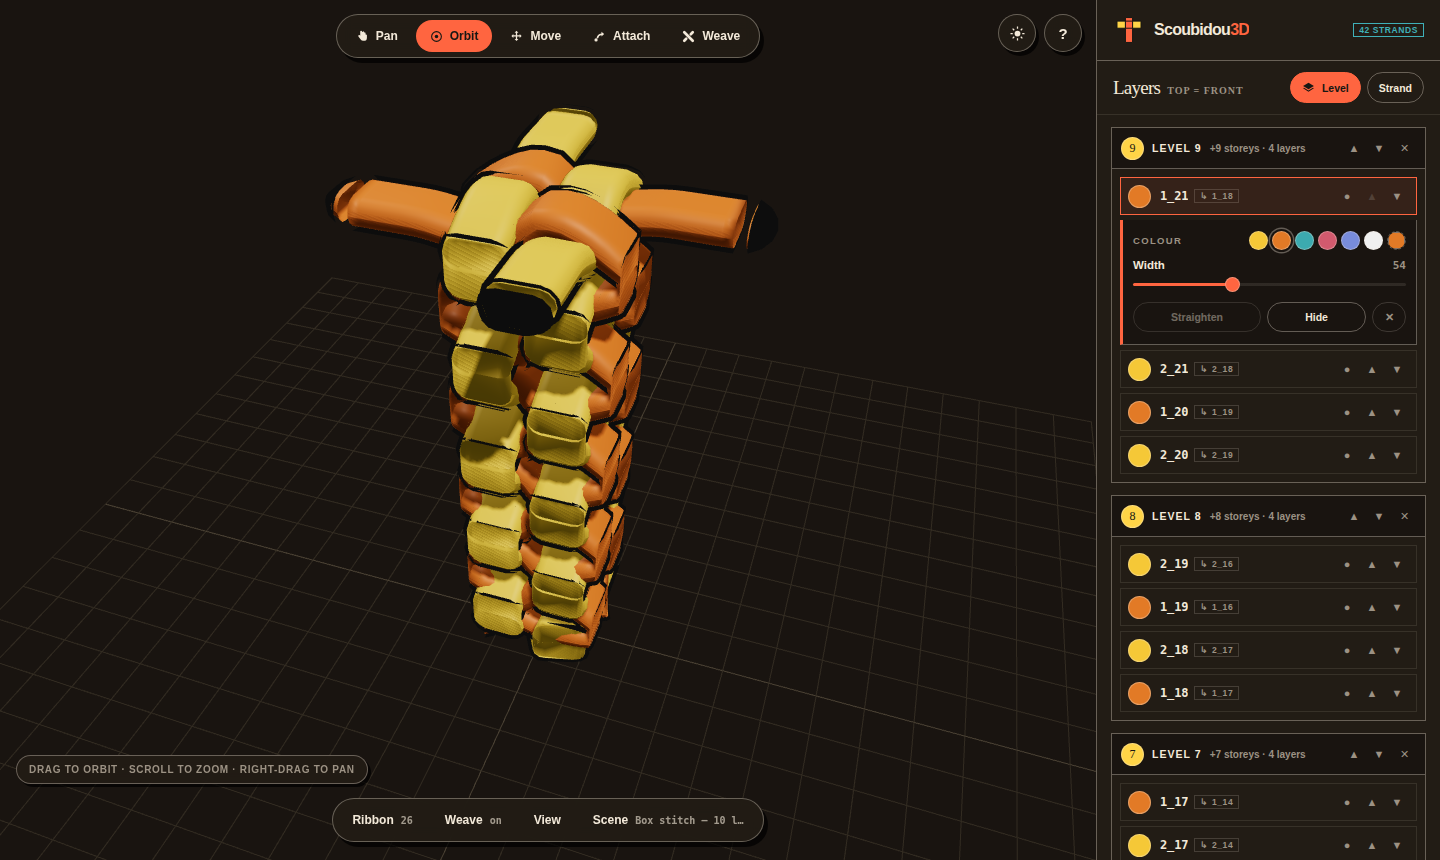
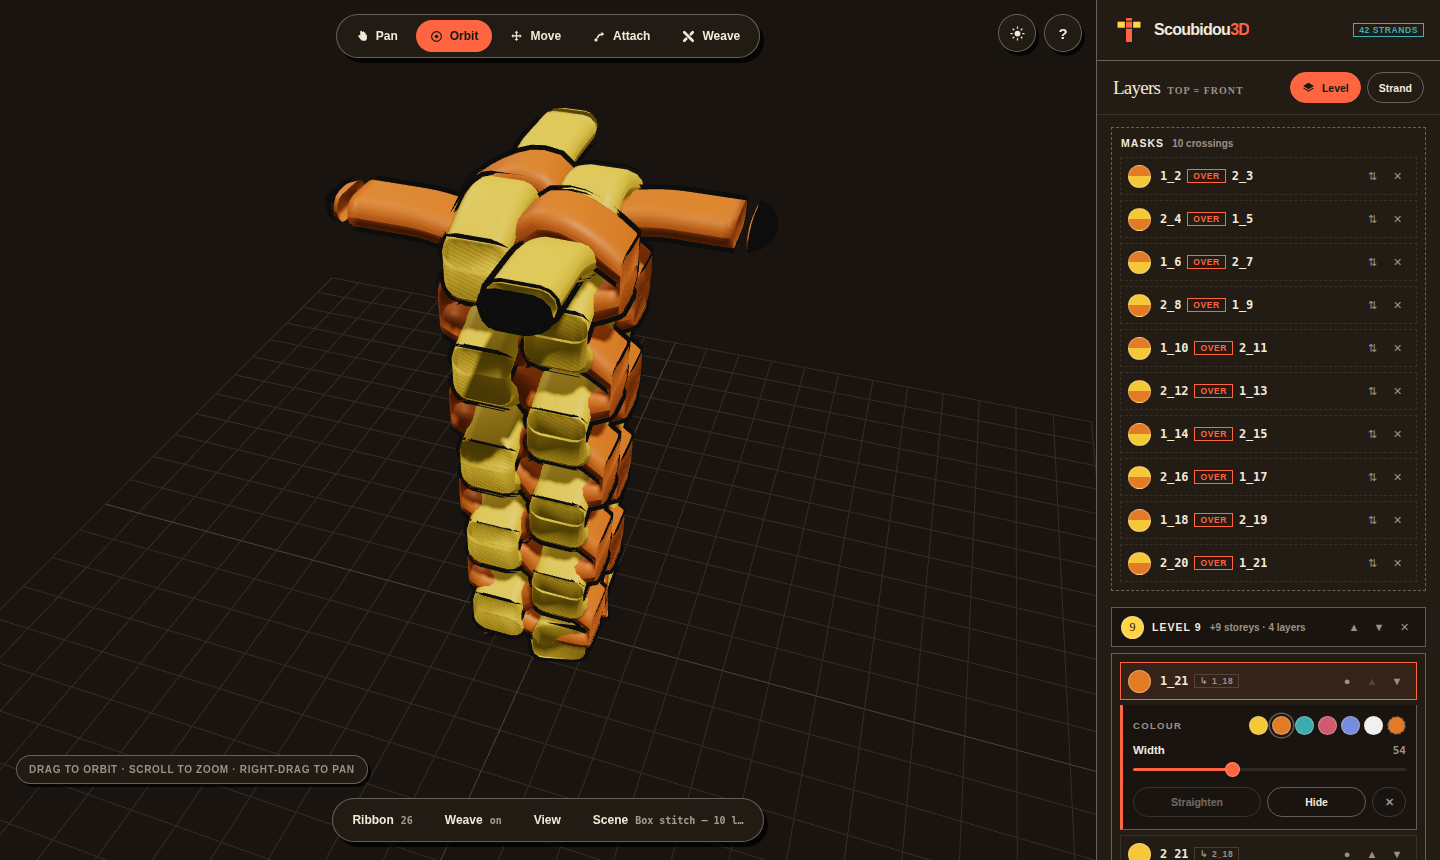
Make a storey a bar of its own, and hang the stack from the bottom
Both of these come from a hand sketch of the panel, which was worth more than the
mock here: it is what someone reaches for when they want to move a storey.

A level was a card whose header happened to name it. It is now a BAR standing on
its own above a box of the layers resting on it. That is the same model either way
— a break is still a position in the stack (levels.ts is untouched) — but a level
is a thing you MOVE, and a detached bar reads as the handle for it, which a card
header does not. The bar carries that break's ▲▼✕; level 0's bar carries none,
because the ground is not a break, just what is left below the lowest one. Masks
are crossings rather than storeys, so their card moves above the stack proper —
which is also where OpenStrand's own layer panel keeps them.

The stack now hangs from the BOTTOM. It is built bottom-up — level 0 is the
ground, strands[0] is the lowest layer — so a panel with room to spare was putting
the ground against its ceiling and leaving the floor empty, which reads upside
down. `margin-top: auto` on the first child rather than `justify-content: flex-end`:
the latter makes overflowing content unreachable at the top in every browser that
has ever shipped it, while an auto margin just resolves to 0. Checked on a
ten-level box stitch — 3047px of rows in a 785px box, first child 12px from the
top, all of it scrollable.

One bug this turned up: the strand count in the brand bar only refreshed on a full
[…]

diff --git a/src/ui/panel.ts b/src/ui/panel.ts
@@ -5,12 +5,17 @@
 //   * The PANEL is the layer stack and nothing else. Everything that used to
 //     scroll above the stack — Ribbon, Weave, View, Scene — has left, so the
 //     thing you actually work in is never below anything.
-//   * The stack is a CARD PER LEVEL rather than one flat list with divider rows.
-//     A storey is a real grouping in the model (levels.ts), so it reads as a
-//     container: its header carries the controls that move or remove that
-//     storey, and the strands resting on it are inside. Masks get their own card
-//     at the foot. Levels are numbered from 0 — level 0 is the ground, which is
-//     what levelAt() has always returned.
+//   * A storey is a BAR of its own with its layers boxed under it, rather than a
+//     card whose header happens to name it. A level is a thing you MOVE — ▲▼
+//     slide it through the stack, ✕ removes it — and a detached bar reads as the
+//     handle for that, the way it is drawn when you sketch the panel by hand.
+//     Level 0 is the ground: not a break at all, just what is left below the
+//     lowest one, so its bar carries no controls. Masks are crossings rather than
+//     storeys, so they sit in a card above the stack — where OpenStrand's own
+//     layer panel keeps them.
+//   * The stack HANGS FROM THE BOTTOM. It is built bottom-up (level 0 is the
+//     ground, strands[0] is the lowest layer), so a panel with room to spare puts
+//     the ground on its floor rather than its ceiling.
 //   * Selecting a row opens an INSPECTOR inside it: that strand's colour, width
 //     and straighten, next to the row they belong to instead of in a section
 //     somewhere else.
@@ -314,9 +319,10 @@ export class Panel {
     // Only the strand count: a 42-strand, 10-level scene ran the full line off the
     // panel's edge, and the cards below already state their own counts — the level
     // headers their layers, the mask card its crossings.
-    const name = el('span', 'tag teal', plural(this.scene.strands.length, 'strand'));
-    name.title = `${this.scene.name} — ${sceneTag(this.scene)}`;
+    const name = el('span', 'tag teal');
+    this.brandTag = name;
     brand.appendChild(name);
+    this.syncBrand();
     this.root.appendChild(brand);
 
     this.barHost = el('div', 'stackbar');
@@ -352,6 +358,13 @@ export class Panel {
     host.innerHTML = '';
 
     this.syncFoldToggle();
+
+    this.syncBrand();
+
+    // The stack reads bottom-up — level 0 is the ground — so an under-filled
+    // panel hangs from the bottom and the ground row sits on the panel's floor.
+    // A dock card rendered in here is not a stack and starts at the top.
+    host.classList.toggle('from-bottom', !this.inlineDock());
 
     const section = this.inlineDock();
     if (section) {
@@ -1187,6 +1200,16 @@ export class Panel {
   // ---- The layer stack -----------------------------------------------------
   private stackHost: HTMLElement | null = null;
   private barHost: HTMLElement | null = null;
+  private brandTag: HTMLElement | null = null;
+
+  /** The scene's own line in the brand bar. Refreshed with the stack rather than
+   *  only on a full render: adding a strand used to leave the count stale. */
+  private syncBrand(): void {
+    const tag = this.brandTag;
+    if (!tag) return;
+    tag.textContent = plural(this.scene.strands.length, 'strand');
+    tag.title = `${this.scene.name} — ${sceneTag(this.scene)}`;
+  }
 
   /**
    * A card per storey, highest first, then the masks in a card of their own.
@@ -1202,45 +1225,56 @@ export class Panel {
     if (!host) return;
     host.innerHTML = '';
 
+    // Masks are crossings rather than storeys, so they sit above the stack proper
+    // — which is also where OpenStrand's own layer panel keeps them.
+    if (this.scene.masks.length) host.appendChild(this.maskCard());
+
     const top = this.scene.levelBreaks.length;
     for (let level = top; level >= 0; level--) {
       const rows: number[] = [];
       for (let i = this.scene.strands.length - 1; i >= 0; i--) {
         if (levelAt(this.scene, i) === level) rows.push(i);
       }
-      // A break parked at the very top (or stacked on another) holds no strands
-      // yet — every layer added from now on is born up there. Show it anyway:
-      // it is a real thing in the model, and it is the one you press ✕ on if you
+      // The bar is its own row above the group rather than the group's header:
+      // a storey is a thing you MOVE, and a detached bar reads as the handle for
+      // it. A break parked at the very top (or stacked on another) holds no
+      // strands yet — every layer added from now on is born up there — so its bar
+      // shows over an empty group, which is also the one you press ✕ on if you
       // added it by accident.
-      host.appendChild(this.levelCard(level, rows));
+      host.appendChild(this.levelBar(level, rows.length));
+      host.appendChild(this.levelGroup(level, rows));
     }
-
-    if (this.scene.masks.length) host.appendChild(this.maskCard());
   }
 
-  private levelCard(level: number, rows: number[]): HTMLElement {
-    const card = el('section', 'level-card');
-    const head = el('header');
+  /**
+   * The storey marker: a bar of its own, above the layers resting on it.
+   *
+   * Level N is break N-1, so the bar carries that break's ▲▼✕. Level 0 is the
+   * ground — not a break at all, just what is left below the lowest one — so its
+   * bar has nothing to move and says so by carrying no controls.
+   */
+  private levelBar(level: number, count: number): HTMLElement {
+    const bar = el('div', 'level-bar' + (level === 0 ? ' ground' : ''));
 
-    const badge = el('span', 'level-badge', String(level));
-    head.appendChild(badge);
-    head.appendChild(el('b', undefined, `Level ${level}`));
+    bar.appendChild(el('span', 'level-badge', String(level)));
+    bar.appendChild(el('b', undefined, `Level ${level}`));
 
     const step = fmt(this.view.getLevelStep());
-    const count = plural(rows.length, 'layer');
-    head.appendChild(
+    const layers = plural(count, 'layer');
+    bar.appendChild(
       el(
         'small',
         undefined,
-        level === 0 ? `ground · ${count}` : `+${level} ${level === 1 ? 'storey' : 'storeys'} · ${count}`,
+        level === 0
+          ? `ground · ${layers}`
+          : `+${level} ${level === 1 ? 'storey' : 'storeys'} · ${layers}`,
       ),
     );
-    card.title =
+    bar.title =
       level === 0
         ? 'The ground storey — everything here rests on the base plane.'
         : `Rests ${level} × ${step} above the ground — the strand thickness plus the band the weave lifts and dips through.`;
 
-    // Level N is break N-1; the ground has no break, so nothing to move.
     if (level > 0) {
       const index = level - 1;
       const at = this.scene.levelBreaks[index];
@@ -1267,23 +1301,25 @@ export class Panel {
       del.classList.add('danger');
       controls.appendChild(del);
 
-      head.appendChild(controls);
+      bar.appendChild(controls);
     }
+    return bar;
+  }
 
-    card.appendChild(head);
-
-    const body = el('div', 'level-rows');
+  /** The layers resting on one storey, top of the stack first. */
+  private levelGroup(level: number, rows: number[]): HTMLElement {
+    const group = el('div', 'level-group');
+    group.setAttribute('aria-label', `Level ${level}`);
     if (!rows.length) {
-      body.appendChild(el('p', 'empty', 'Empty — new layers are born here'));
+      group.appendChild(el('p', 'empty', 'Empty — new layers are born here'));
     }
     for (const i of rows) {
-      body.appendChild(this.layerRow(i));
+      group.appendChild(this.layerRow(i));
       if (this.scene.strands[i].id === this.selectedId) {
-        body.appendChild(this.inspector(this.scene.strands[i], i));
+        group.appendChild(this.inspector(this.scene.strands[i], i));
       }
     }
-    card.appendChild(body);
-    return card;
+    return group;
   }
 
   private maskCard(): HTMLElement {
@@ -1292,7 +1328,7 @@ export class Panel {
     head.appendChild(el('b', undefined, 'Masks'));
     head.appendChild(el('small', undefined, plural(this.scene.masks.length, 'crossing')));
     card.appendChild(head);
-    const body = el('div', 'level-rows');
+    const body = el('div');
     // OSS appends a MaskedStrand to the end of the strand list, which is the top
     // of the layer panel; here they are a kind of their own, so they keep their
     // own order and their own card.

diff --git a/src/styles.css b/src/styles.css
@@ -253,50 +253,73 @@ button {
 .stack {
   flex: 1 1 auto;
   min-height: 0;
+  display: flex;
+  flex-direction: column;
   overflow-y: auto;
-  padding: 12px 14px 20px;
+  padding: 12px 14px 16px;
   /* Scrolls vertically; horizontal drags and pinches stay inert, and a scroll that
      hits the end doesn't chain out to the page behind it. */
   touch-action: pan-y;
   overscroll-behavior: contain;
 }
 
-/* ---- a level is a card, not a divider line ------------------------------- */
-/* Everything resting on that storey is inside it, and the card's own header is
-   what moves or removes the storey. */
+/* The stack is built bottom-up — level 0 is the ground — so a panel with room to
+   spare hangs its rows from the FLOOR rather than the ceiling: the ground sits at
+   the bottom of the panel, where it sits in the model.
+   `margin-top: auto` on the first child rather than `justify-content: flex-end`,
+   because the latter makes overflowing content unreachable at the top in every
+   browser that has ever shipped it. An auto margin just resolves to 0 instead. */
+.stack.from-bottom > :first-child {
+  margin-top: auto;
+}
 
-.level-card,
+/* ---- a storey is a bar, and its layers are the box under it --------------- */
+/* The bar is detached from the group on purpose: a storey is a thing you MOVE
+   (▲▼ slide it through the stack, ✕ removes it), and a bar standing on its own
+   above the layers reads as the handle for that. Level 0 is the ground — not a
+   break, just what is left below the lowest one — so its bar carries no
+   controls. */
+
+.level-bar {
+  display: flex;
+  align-items: center;
+  gap: 8px;
+  flex: 0 0 auto;
+  padding: 7px 9px;
+  border: 1.5px solid var(--edge2);
+  background: var(--cream);
+}
+
+.level-group,
 .mask-card {
+  flex: 0 0 auto;
+  margin-top: 6px;
+  padding: 8px;
   border: 1.5px solid var(--edge2);
   background: var(--paper);
 }
 
-.level-card + .level-card,
-.mask-card {
-  margin-top: 12px;
+/* The gap between one storey and the next: bigger than the gap between a bar and
+   its own layers, so the grouping reads without a label. */
+.level-group + .level-bar {
+  margin-top: 16px;
 }
 
-/* Masks are a kind of their own, not a storey — so the card says so. */
+/* Masks are a kind of their own, not a storey — so the card says so, and it sits
+   above the stack proper rather than in it. */
 .mask-card {
+  margin: 0 0 16px;
   border-style: dashed;
 }
 
-.level-card > header,
 .mask-card > header {
   display: flex;
   align-items: center;
   gap: 8px;
-  padding: 8px 9px;
-  background: var(--cream);
-  border-bottom: 1px solid var(--edge2);
+  padding: 1px 1px 8px;
 }
 
-.mask-card > header {
-  background: none;
-  border-bottom-style: dashed;
-}
-
-.level-card > header b,
+.level-bar b,
 .mask-card > header b {
   font-size: 10.5px;
   font-weight: 800;
@@ -304,7 +327,7 @@ button {
   text-transform: uppercase;
 }
 
-.level-card > header small,
+.level-bar small,
 .mask-card > header small {
   margin-right: auto;
   font-size: 10px;
@@ -326,10 +349,6 @@ button {
   color: #171713;
   font-family: Georgia, serif;
   font-size: 12px;
-}
-
-.level-rows {
-  padding: 8px;
 }
 
 .empty {

diff --git a/docs/layer-levels.md b/docs/layer-levels.md
@@ -9,13 +9,12 @@ before the code exists. Short form:
 
 ![the button and the row it adds](layer-levels-panel.svg)
 
-> **The sketch above is the original spec**, drawn when a level was a *row* in one
-> flat list. The panel has since been rebuilt to the mock-3 layout in
-> [docs/panel-mocks](panel-mocks/) and a level is now a **card** holding the
-> strands that rest on it: the rules below are unchanged, but where the doc says
-> “the level row”, read “the level card's header”. Levels are also numbered from
-> **0** — the ground — which is what `levelAt()` returns and what the panel now
-> prints; earlier drafts of this file counted from 1.
+> **The sketch above is the original spec.** The rules below are unchanged; two
+> things about the panel that draws them are. A level is shown as a **bar of its
+> own** with the layers resting on it boxed underneath — so “the level row” in
+> this doc is that bar, and it is what `▲▼✕` act on. And levels are numbered from
+> **0**, the ground, which is what `levelAt()` returns and what the panel prints;
+> earlier drafts of this file counted from 1.
 
 ## Why it is needed
 
@@ -54,8 +53,9 @@ nothing above or below to stay clear of.
 1. **The button.** The Layers header gets a button showing the stacked-layers
    icon, labelled **Level**.
 2. **What it adds.** Pressing it inserts a level at the *top* of the layer stack.
-   The panel shows it as a card, badged with its number — counting up from `0`,
-   the ground — and headed `+N storeys · M layers`.
+   The panel shows it as a bar, badged with its number — counting up from `0`, the
+   ground — reading `+N storeys · M layers`, with that storey's layers in a box
+   below it.
 3. **What it means.** Every strand **above** a level row rests one strand
    thickness (the Ribbon ▸ **Thickness** value) higher in Z than it otherwise
    would. Levels add up: two rows above a lace means two thicknesses.
@@ -64,10 +64,10 @@ nothing above or below to stay clear of.
    both of which push onto the top of the stack) lands above it, one storey up.
    That is the point of the button: press it, and the next thing you draw is on
    a new level.
-5. **It is a real layer.** The card's own header carries `▲` / `▼`, so you can
-   push the storey down through the stack and watch the strands it passes drop a
-   level. `✕` removes it and everything settles back. Level 0 has no controls:
-   the ground is not a break, it is what is left below the lowest one.
+5. **It is a real layer.** The bar carries `▲` / `▼`, so you can push the storey
+   down through the stack and watch the strands it passes drop a level. `✕`
+   removes it and everything settles back. Level 0's bar has no controls: the
+   ground is not a break, it is what is left below the lowest one.
 6. **A cord may climb.** Strands glued end to end share one *rank* — that is what
    stops a stitch from climbing a staircase along its own length just because of
    the order it happened to be drawn in. Levels are not like that: pressing **New

diff --git a/README.md b/README.md
@@ -32,8 +32,9 @@ No install, nothing uploaded: it runs in your browser and your files stay on you
 
 ## The studio
 
-The panel is the **layer stack and nothing else** — one card per storey, masks in a card of their
-own, and a strand's colour, width and *Straighten* opening inside its own row. The settings live in
+The panel is the **layer stack and nothing else** — a bar per storey with its layers boxed under it,
+masks in a card of their own above them, and a strand's colour, width and *Straighten* opening inside
+its own row. The stack hangs from the bottom, because that is where the ground is. The settings live in
 a **dock** along the bottom of the canvas (Ribbon / Weave / View / Scene), one card at a time, each
 pill printing its own value so a scene's whole setup reads without opening anything. Every note the
 panel used to print — what each tool does, what a level is, what a mask is, the gestures — is behind
@@ -108,9 +109,9 @@ The three layouts this was chosen from, as clickable mocks and renders:
   rests **one storey** higher — two strand thicknesses, the height of a woven round (a lace over
   plus a lace under), which is what it takes for the next round to sit *on* it instead of sinking
   into it. Because the storey goes in at the top, nothing already drawn moves — but every strand you
-  add next is born a storey up. Each level is a card holding the strands that rest on it, numbered
-  from **0** (the ground); slide it down with ▲▼ to drop the layers it passes back a level.
-  ([how it works](docs/layer-levels.md))
+  add next is born a storey up. Each storey is a bar of its own, numbered from **0** (the ground),
+  with the layers resting on it boxed underneath; slide the bar down with ▲▼ to drop the layers it
+  passes back a level. ([how it works](docs/layer-levels.md))
 - 🔗 **Attach & Move — OpenStrand's editing, in 3D.** A **Tool** bar across the top of the scene
   (Pan / Orbit / Move / Attach / Weave), where OpenStrand Studio keeps its modes, turns the strand
   endpoints into grab handles:

diff --git a/docs/panel-mocks/README.md b/docs/panel-mocks/README.md
@@ -26,7 +26,7 @@ All three obey the same rules:
 ## What shipped
 
 **Mock 3.** The studio now works this way for real — `src/ui/panel.ts` is the layer
-stack alone, a card per storey; the settings live in the dock over the canvas; every
+stack alone; the settings live in the dock over the canvas; every
 note is behind the `?`; levels count from 0; and the dark theme here became the
 app's, and then the whole site's (`site/theme.js` shares its stored choice with the
 studio, so opening one from the other does not change the lights).
@@ -37,6 +37,13 @@ the canvas is the strip above it, and a 310px card over that strip hides the ver
 thing the slider is changing. So below 860px the app does what mock 1 does instead —
 the dock swaps the panel to that card, and the bar names it with a way back to
 Layers. Same four pills, same four cards, in the one place there is room for them.
+
+**A second divergence, from use.** The mocks draw a storey as a card whose header
+names it. In the app the bar is *detached*, standing above a box of its layers,
+because a level is a thing you move and a bar reads as the handle for it — and the
+stack hangs from the bottom of the panel, since level 0 is the ground. Both came
+straight out of a hand sketch of the panel, which is worth more than a mock here:
+it is what someone reaches for when they want to move a storey.
 
 The three mocks stay in the repo as the record of the choice — and as the place to
 try the next panel idea before touching the app.
